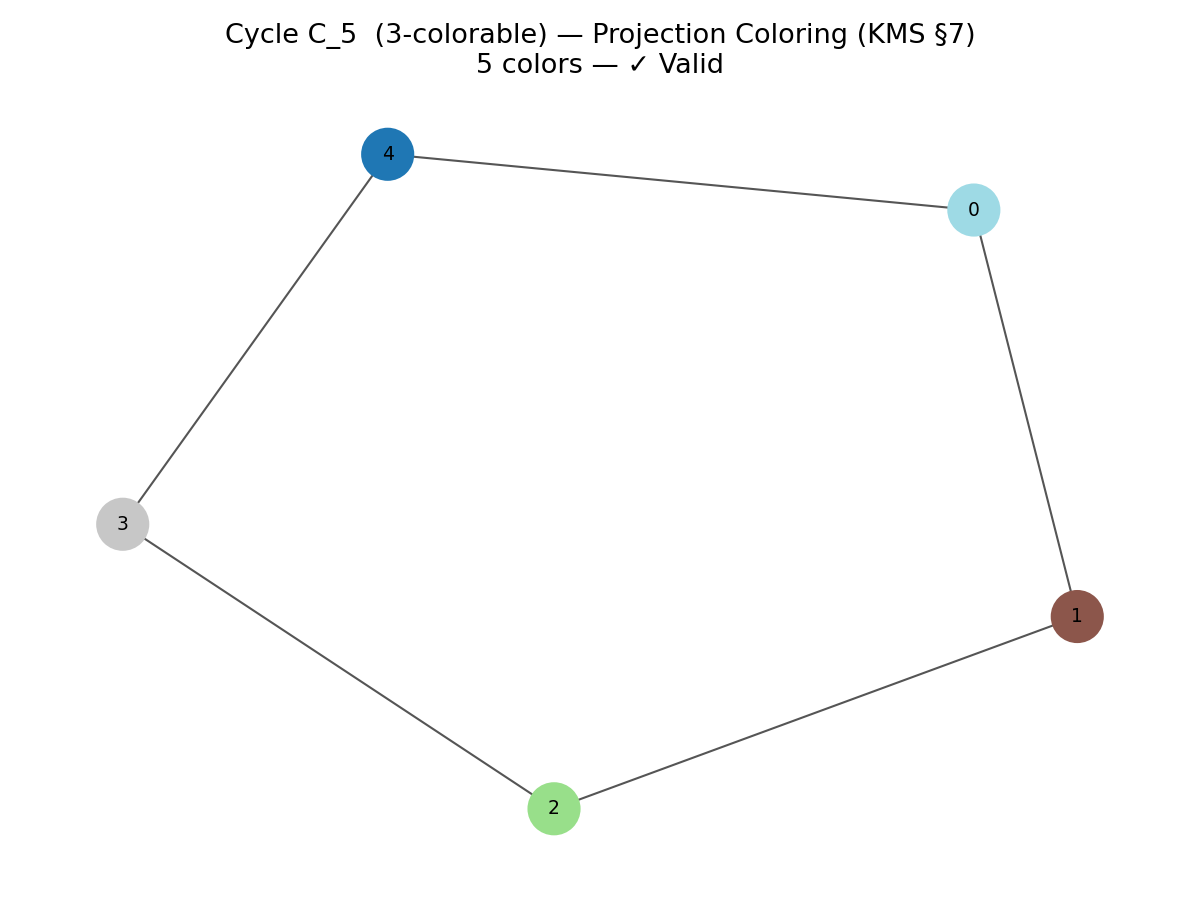
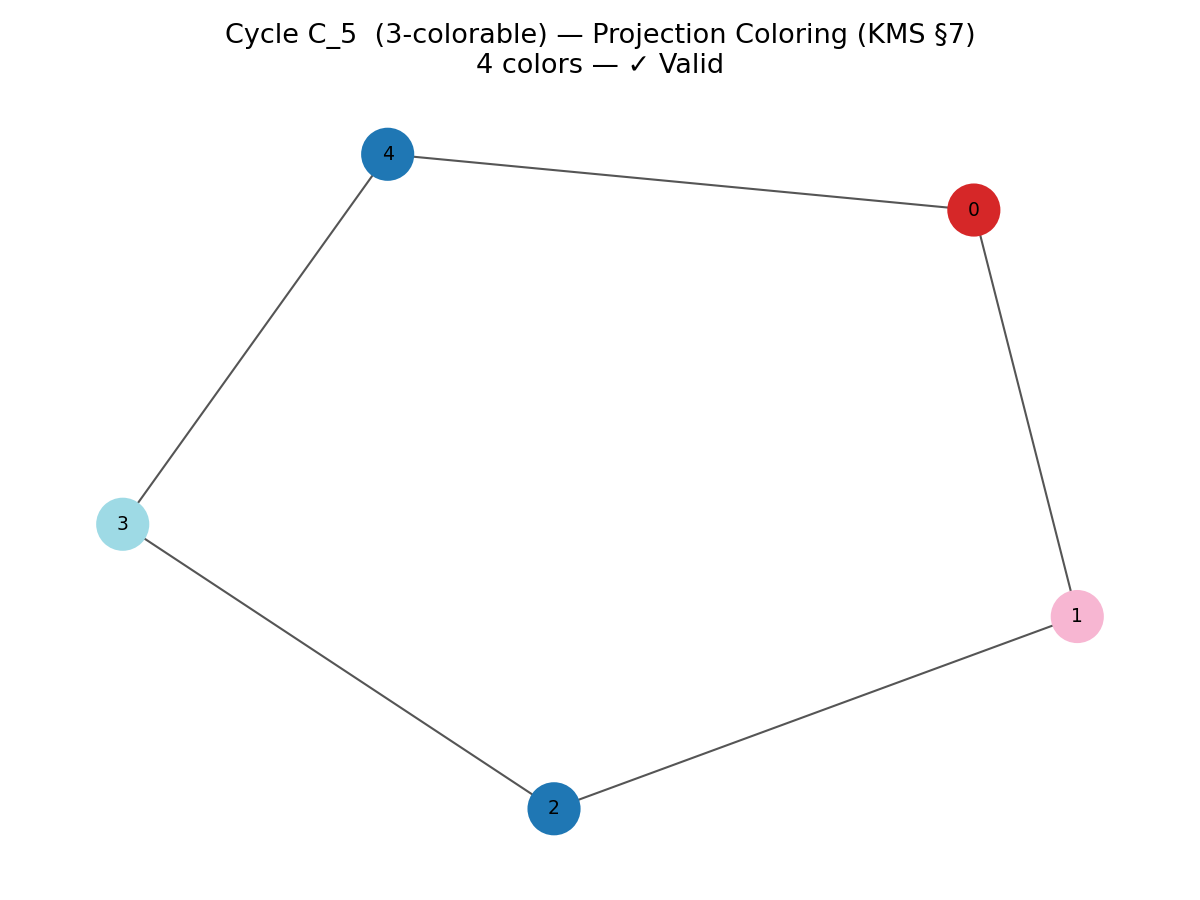
revision con claude opus

diff --git a/projection_coloring.py b/projection_coloring.py
@@ -10,16 +10,17 @@ Algorithm (for k-colorable G, typically k=3)
 --------------------------------------------
 Repeat until all vertices are colored:
 
-  1. Sample a random Gaussian vector r ~ N(0, I_n).
+  1. Sample a random Gaussian vector r ~ N(0, I_n) (NOT normalised).
   2. Project each uncolored vertex i onto r:  x_i = v_i · r.
-  3. Compute threshold  c = sqrt(2 ln Δ),  where Δ is the max degree
-     in the *remaining* subgraph.
+  3. Compute threshold  c = sqrt(2 ln(Δ/k)),  where Δ is the max degree
+     in the *remaining* subgraph and k is the vector chromatic number hint.
   4. Let S = { i : x_i ≥ c }.  Vertices in S tend to have large
      positive projections, meaning their vectors point "in the direction
      of r", which geometrically means they are clustered together —
      but edge constraints (v_i · v_j ≤ −1/(k−1) < 0) ensure neighbors
      are *not* in S simultaneously (with high probability for large Δ).
-  5. Find a maximal independent set I ⊆ S in the subgraph G[S].
+  5. Construct an independent set I ⊆ S by deleting one endpoint from
+     every edge within G[S]  (as per Lemma 7.2 in the paper).
   6. Assign a fresh color to I and remove I from the remaining graph.
 
 Approximation guarantee (Thm 7.3):
@@ -33,13 +34,14 @@ import random
 import numpy as np
 import networkx as nx
 
-from graph_utils import maximal_independent_set_in_subgraph
+from graph_utils import independent_set_by_edge_deletion
 
 
 def projection_coloring(
     G: nx.Graph,
     vectors: np.ndarray,
     nodes: list,
+    k_hint: int = 3,
     seed: int = None,
     max_rounds: int = None,
     verbose: bool = False,
@@ -49,8 +51,9 @@ def projection_coloring(
 
     Args:
         G:          Original NetworkX graph.
-        vectors:    ndarray shape (n, n) — row i is the unit vector for nodes[i].
+        vectors:    ndarray shape (n, d) — row i is the unit vector for nodes[i].
         nodes:      Ordered list of nodes corresponding to vector rows.
+        k_hint:     Vector chromatic number hint (default 3, used in threshold).
         seed:       Random seed for reproducibility.
         max_rounds: Safety limit on the number of coloring rounds (default: 10*n).
         verbose:    Print progress information.
@@ -78,17 +81,19 @@ def projection_coloring(
         remaining_nodes = list(remaining.nodes())
         n_rem = len(remaining_nodes)
 
-        # Threshold c = sqrt(2 ln Δ);  Δ = max degree in remaining subgraph
+        # Threshold c = sqrt(2 ln(Δ / k));  Δ = max degree in remaining subgraph
+        # (Lemma 7.2 / Theorem 7.3 in the paper)
         degrees = dict(remaining.degree())
         max_deg = max(degrees.values()) if degrees else 1
         max_deg = max(max_deg, 1)                      # avoid log(0)
 
-        c = math.sqrt(2.0 * math.log(max_deg + 1))    # +1 for isolated vertices
+        ratio = max(max_deg / max(k_hint, 1), math.e)  # ensure ratio ≥ e (c > 0)
+        c = math.sqrt(2.0 * math.log(ratio))
 
         # ---- Step 1-2: random projection ------------------------------------
+        # r ~ N(0, I_n) — NOT normalised (paper Section 7)
         dim = vectors.shape[1]
         r = rng.standard_normal(dim)
-        r /= np.linalg.norm(r)
 
         # Projections for uncolored vertices
         proj = {}
@@ -113,8 +118,10 @@ def projection_coloring(
                 f"Δ={max_deg:3d} | c={c:.3f} | |S|={len(S):4d}"
             )
 
-        # ---- Step 5: maximal independent set in G[S] -----------------------
-        ind_set = maximal_independent_set_in_subgraph(remaining, S)
+        # ---- Step 5: independent set via edge-endpoint deletion (Lemma 7.2) -
+        # For every edge (u,v) in G[S], delete one endpoint (the one with
+        # *lower* projection, keeping the more "aligned" vertices).
+        ind_set = independent_set_by_edge_deletion(remaining, S, proj)
 
         # ---- Step 6: color and remove --------------------------------------
         for v in ind_set:

diff --git a/graph_utils.py b/graph_utils.py
@@ -188,3 +188,41 @@ def maximal_independent_set_in_subgraph(G: nx.Graph, candidates: set) -> set:
             independent.add(v)
             blocked.update(G.neighbors(v))
     return independent
+
+
+def independent_set_by_edge_deletion(
+    G: nx.Graph, candidates: set, proj_values: dict
+) -> set:
+    """
+    Construct an independent set from candidates by edge-endpoint deletion.
+
+    This matches the paper's analysis in Lemma 7.2 (Section 7): for every
+    edge (u, v) within the induced subgraph G[candidates], delete the
+    endpoint with the *lower* projection value.  The surviving vertices
+    form an independent set.
+
+    Args:
+        G:           The full graph.
+        candidates:  Subset of vertices (the threshold set S).
+        proj_values: Mapping vertex → projection scalar (v_i · r).
+
+    Returns:
+        A set of vertices forming an independent set within G[candidates].
+    """
+    removed = set()
+
+    # Examine every edge within the candidate set
+    for u in candidates:
+        if u in removed:
+            continue
+        for v in G.neighbors(u):
+            if v not in candidates or v in removed:
+                continue
+            # Both u and v are in candidates — remove the one with lower proj
+            if proj_values.get(u, 0) < proj_values.get(v, 0):
+                removed.add(u)
+                break  # u removed, no need to check more of its edges
+            else:
+                removed.add(v)
+
+    return candidates - removed

diff --git a/hyperplane_coloring.py b/hyperplane_coloring.py
@@ -38,15 +38,30 @@ def _choose_t(G: nx.Graph, k_hint: int = 3) -> int:
     """
     Choose the number of random hyperplanes t.
 
-    From the paper: t = ⌈log_{k/(k-1)}(n)⌉.
-    For k=3: t = ⌈log_{1.5}(n)⌉ = ⌈ln(n)/ln(1.5)⌉.
-    In practice a small t (6–20) already works well.
+    From the paper (Section 6, proof of Theorem 6.2):
+      t = ⌈log₂(k)⌉ + 2·⌈log₂(log₂(Δ))⌉
+
+    where k is the vector chromatic number hint and Δ is the maximum degree.
+    For very small Δ (≤ 4) we fall back to ⌈ln(n)/ln(k/(k-1))⌉.
     """
     n = G.number_of_nodes()
     if n <= 1:
         return 1
-    base = k_hint / (k_hint - 1)          # e.g. 1.5 for k=3
-    t = math.ceil(math.log(n) / math.log(base))
+
+    max_deg = max(dict(G.degree()).values()) if G.number_of_edges() > 0 else 1
+    max_deg = max(max_deg, 2)
+
+    if max_deg > 4:
+        # Paper formula: t = ceil(log2(k)) + 2*ceil(log2(log2(Δ)))
+        log2_k = math.ceil(math.log2(max(k_hint, 2)))
+        log2_delta = math.log2(max_deg)
+        log2_log2_delta = math.ceil(math.log2(max(log2_delta, 1)))
+        t = log2_k + 2 * log2_log2_delta
+    else:
+        # Fallback for very sparse graphs
+        base = k_hint / (k_hint - 1)    # e.g. 1.5 for k=3
+        t = math.ceil(math.log(n) / math.log(base))
+
     return max(t, 1)
 
 
